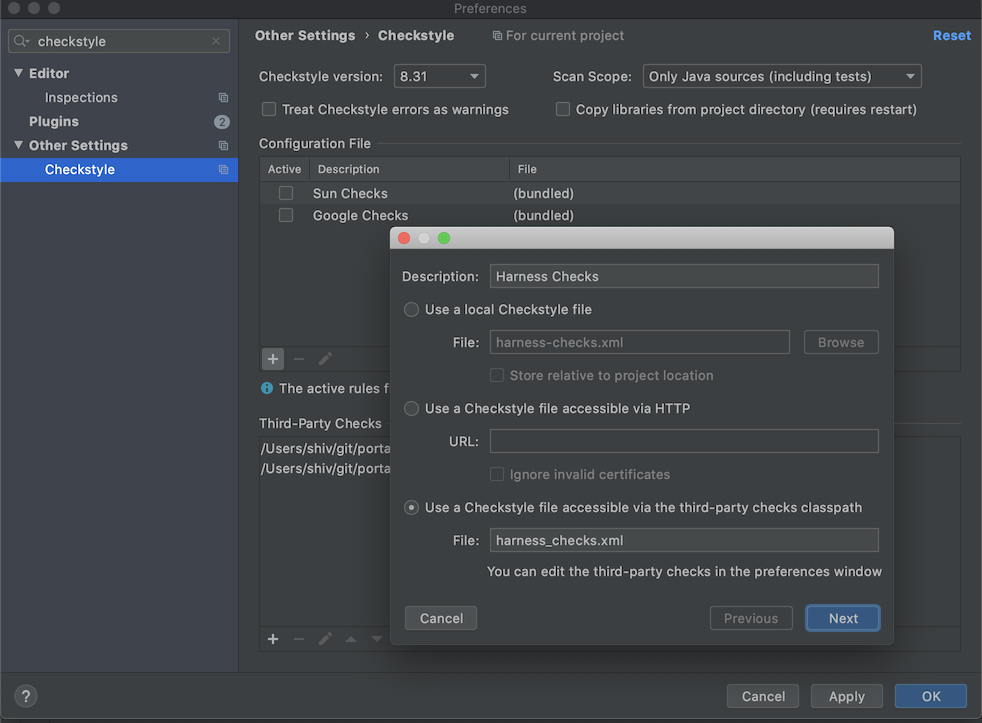
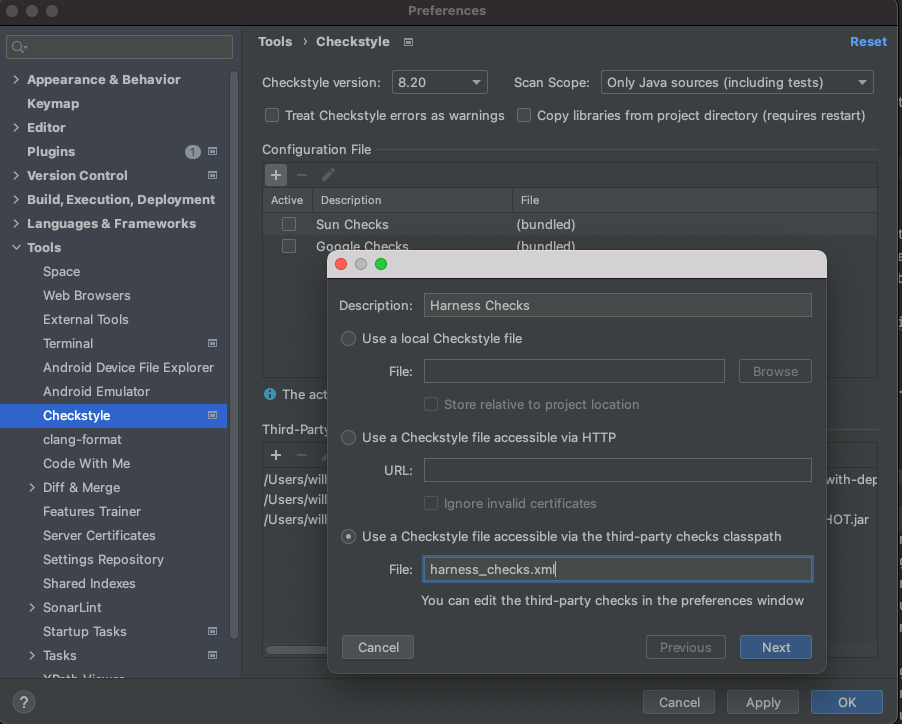
[CDP-18601]: Updated README setup (#26961)
* [CDP-18601]: Updated README setup

* [CDP-18601]: Added will.collins@harness.io to author checks

* Merge branch 'master' into CDP-18601

* Merge branch 'master' into CDP-18601

* Merge branch 'master' into CDP-18601

* Merge branch 'master' into CDP-18601

* Merge branch 'master' into CDP-18601

* Merge branch 'master' into CDP-18601

* Merge branch 'master' into CDP-18601

* Merge branch 'master' into CDP-18601

* [CDP-18601]: Moved ExecutionLogWriter based on aeriform scan

* [CDP-18601]: Fixed checkstyle and sonarqube issues

* [CDP-18601]: Ran clang-format

* Merge branch 'master' into CDP-18601

* Merge branch 'master' of github.com:wings-software/portal into CDP-18601

* Merge branch 'master' of github.com:wings-software/portal into CDP-18601

* Merge branch 'master' of github.com:wings-software/portal into CDP-18601

* Merge branch 'master' of github.com:wings-software/portal into CDP-18601

* Merge branch 'master' of github.com:wings-software/portal into CDP-18601

diff --git a/970-api-services-beans/src/main/java/software/wings/utils/ExecutionLogWriter.java b/970-api-services-beans/src/main/java/software/wings/utils/ExecutionLogWriter.java
@@ -1,20 +1,18 @@
 package software.wings.utils;
 
-import static io.harness.annotations.dev.HarnessModule._970_API_SERVICES_BEANS;
 import static io.harness.annotations.dev.HarnessTeam.CDP;
 import static io.harness.logging.CommandExecutionStatus.RUNNING;
 
 import io.harness.annotations.dev.OwnedBy;
-import io.harness.annotations.dev.TargetModule;
 import io.harness.logging.LogCallback;
 import io.harness.logging.LogLevel;
 
 import java.io.Writer;
+import javax.validation.constraints.NotNull;
 import lombok.Builder;
 
 @Builder
 @OwnedBy(CDP)
-@TargetModule(_970_API_SERVICES_BEANS)
 public class ExecutionLogWriter extends Writer {
   private final LogCallback logCallback;
   @SuppressWarnings("PMD.AvoidStringBufferField") // This buffer is getting cleared on every newline.
@@ -27,7 +25,7 @@ public class ExecutionLogWriter extends Writer {
   private final String commandUnitName;
 
   @Override
-  public void write(char[] cbuf, int off, int len) {
+  public void write(@NotNull char[] cbuf, int off, int len) {
     stringBuilder.append(cbuf, off, len);
     char lastChar = cbuf[off + len - 1];
     if (lastChar == '\n') {

diff --git a/README.md b/README.md
@@ -5,7 +5,7 @@ Portal Project Dev environment setup instructions
 ### Prerequisities
 1. Install Homebrew:
 ```
-/usr/bin/ruby -e "$(curl -fsSL https://raw.githubusercontent.com/Homebrew/install/master/install)"
+/bin/bash -c "$(curl -fsSL https://raw.githubusercontent.com/Homebrew/install/HEAD/install.sh)"
 ```
 
 2. Download and Install Java 8
@@ -55,7 +55,7 @@ brew install buf
 
 To check if your protobuf files are according to the coding standards execute in the root of the repo
 ```
-buf check lint
+buf lint
 ```
 
 8. Download the data-collection-dsl username and password from [vault](https://vault-internal.harness.io:8200/ui/vault/secrets/secret/show/credentials/artifactory-internal-read) and add following lines in your `~/.bashrc` file
@@ -309,8 +309,8 @@ helper shell scripts:
 5. Install SonarLint plugin:
    - This plugin is really helpful to analyze your code for issues as you code.
    - Go to `Preferences -> Plugins` ->  type SonarLint -> Install plugin. (Will need to restart Intellij)
-   - Go to `Preferences -> Other settings -> Sonarlint general settings`. Check "Automatically trigger analysis". Add a connection to `https://sonar.harness.io`. You'll need to create a custom token.
-   - Go to `Preferences -> Other settings -> Sonarlint project settings`. Check "Bind project to sonarqube", and select the connection, and set project as `portal_bazel`. This is so that we use the same rules locally instead of the default rules.
+   - Go to `Preferences -> Tools -> SonarLint`. Check "Automatically trigger analysis". Add a connection to `https://sonar.harness.io`. You'll need to create a custom token.
+   - Go to `Preferences -> Tools -> SonarLint -> Project Settings`. Check "Bind project to sonarqube", and select the connection, and set project as `portal_bazel`. This is so that we use the same rules locally instead of the default rules.
     ![config image](img/sonar-config.png).
    - Go to `Preferences -> Editor -> Colorscheme -> Sonarlint`. For Blocker, Critical & Major, untick "Inherit values from" checkbox and configure a different highlighting style. These violations are treated as release blockers and this configuration is to highlight them differently from regular warnings.
     ![config image](img/sonar-highlight-config.png).
@@ -322,11 +322,11 @@ helper shell scripts:
       mvn -f tools/ clean install -DskipTests
       ```
 
-   1. Setup Checkstyle plugin. In `Preferences -> Other settings -> Checkstyle` add `tools/config/target/config-0.0.1-SNAPSHOT-jar-with-dependencies.jar` and `tools/checkstyle/target/checkstyle-0.0.1-SNAPSHOT.jar` jars in the repo to the 3rd party checks classpath. Add configuration file `harness_checks.xml` (Choose the option to resolve the file from the 3rd party checks classpath - it's within the config jar) and choose it as the default active. Set scan scope to  `java sources including tests`. In case Intellij complains about missing Harness rule files add following jar to Third-Party Checks `tools/checkstyle/target/checkstyle-0.0.1-SNAPSHOT.jar`. Additionally, check version of Checkstyle plugin to be 8.20 `Preferences > Tools > Checkstyle > Checkstyle Version:`    
+   1. Setup Checkstyle plugin. In `Preferences -> Tools -> Checkstyle` add `tools/config/target/config-0.0.1-SNAPSHOT-jar-with-dependencies.jar` and `tools/checkstyle/target/checkstyle-0.0.1-SNAPSHOT.jar` jars in the repo to the 3rd party checks classpath. Add configuration file `harness_checks.xml` (Choose the option to resolve the file from the 3rd party checks classpath - it's within the config jar) and choose it as the default active. Set scan scope to  `java sources including tests`. In case Intellij complains about missing Harness rule files add following jar to Third-Party Checks `tools/checkstyle/target/checkstyle-0.0.1-SNAPSHOT.jar`. Additionally, check version of Checkstyle plugin to be 8.20 `Preferences > Tools > Checkstyle > Checkstyle Version:`
    *  ![config image](img/checkstyle-config-pre.png).
    *  ![config image](img/checkstyle-config.png).
-7. Change settings to mark injected fields as assigned. (Settings > Editor > Inspections > Java > Declaration Redundancy > Unused Declarations>Entry Points >
-   Annotations > Mark field as implicitly written if annotated by) Click add, then search for "Inject". Add both google and javax annotations.
+7. Change settings to mark injected fields as assigned. (Preferences -> Editor -> Inspections -> Java -> Declaration Redundancy -> Unused Declarations -> Entry Points ->
+   Annotations -> Mark field as implicitly written if annotated by) Click add, then search for "Inject". Add both google and javax annotations.
    *  ![config image](img/annotation_config.png).
 
 8. Increase Build Process Heap Size (Preferences > Build, Execution, Development > Compiler, search for "Build Process Heap Size" and set it to 2048 or higher if you still see an out of memory exception in future)
